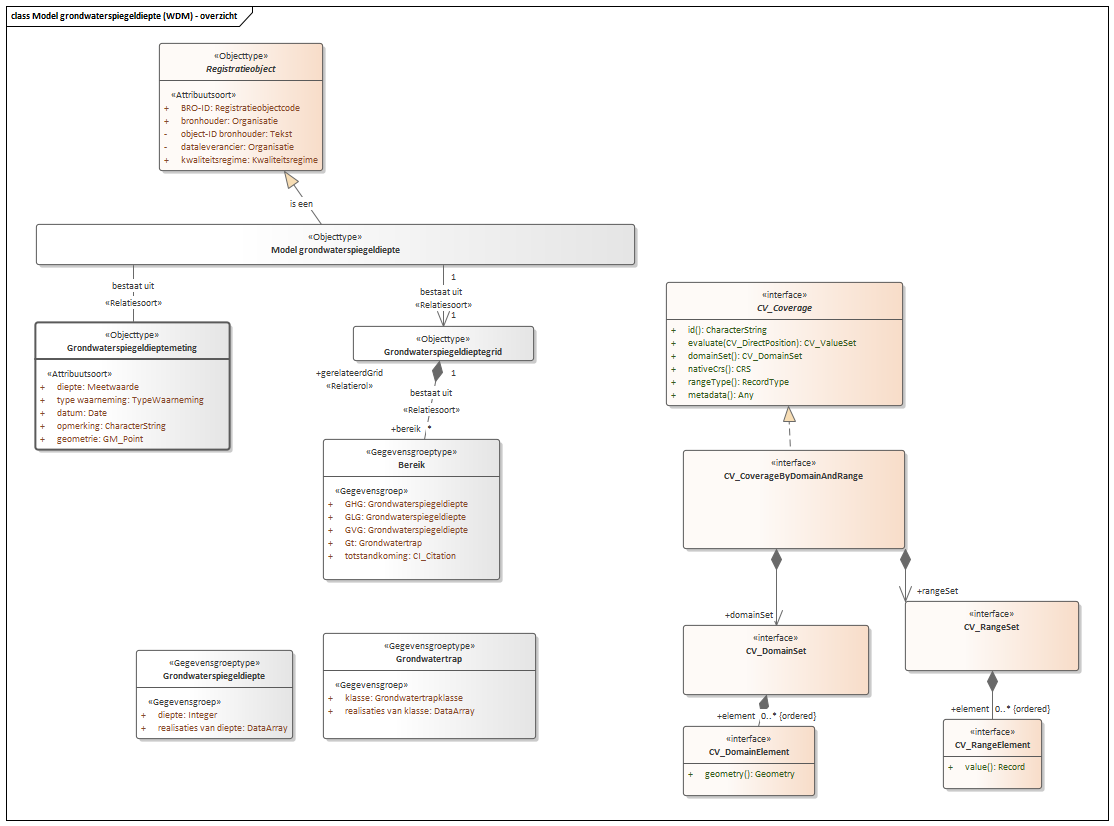
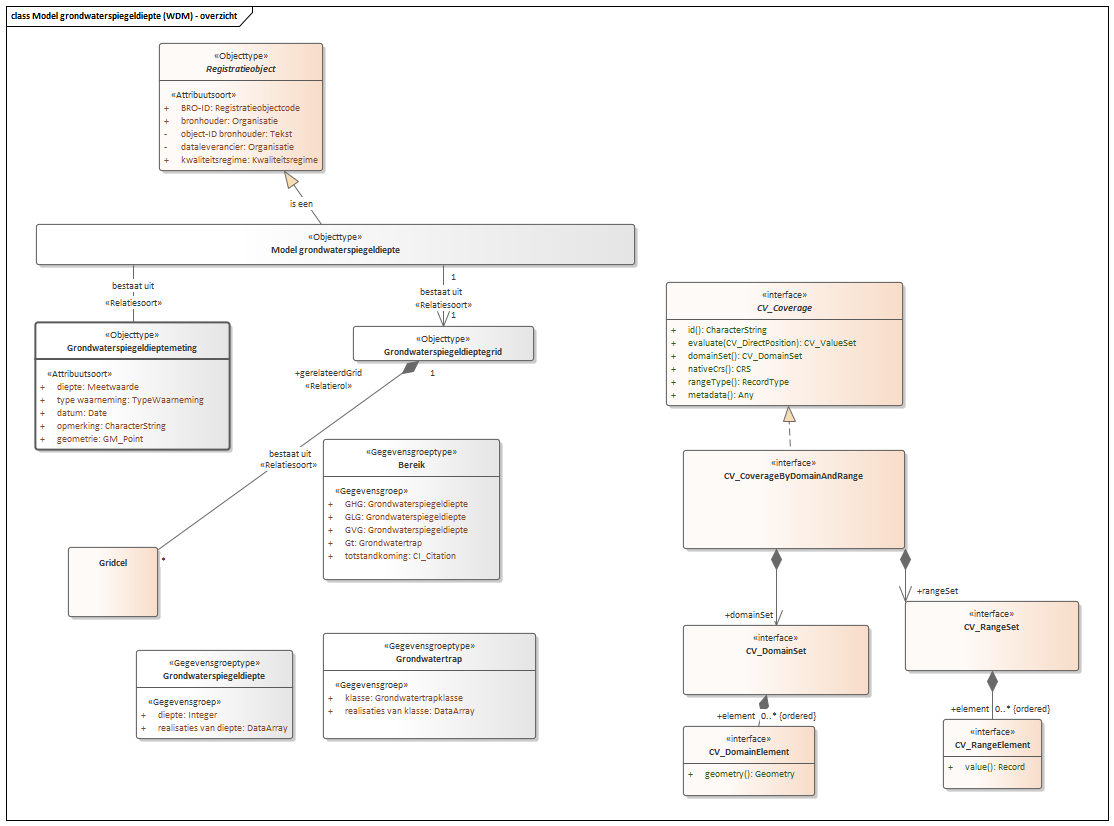
Conceptualmodel-ModelgrondwaterspiegeldiepteWDM-conceptueel-1.0-1-20200721-20201027-120334

diff --git a/data/WDM-cat.msword.html b/data/WDM-cat.msword.html
@@ -15,7 +15,7 @@
    <body>
       <p>Conceptual model/Model grondwaterspiegeldiepte (WDM) - conceptueel/20200721</p>
       <p>Imvertor: 1.61.3</p>
-      <p>Model release: Conceptualmodel-ModelgrondwaterspiegeldiepteWDM-conceptueel-1.0-1-20200721-20201027-120125</p>
+      <p>Model release: Conceptualmodel-ModelgrondwaterspiegeldiepteWDM-conceptueel-1.0-1-20200721-20201027-120334</p>
       <hr>
       <section>
          <h1>Artikel 1 Definitie van registratieobject, entiteiten en attributen</h1>
